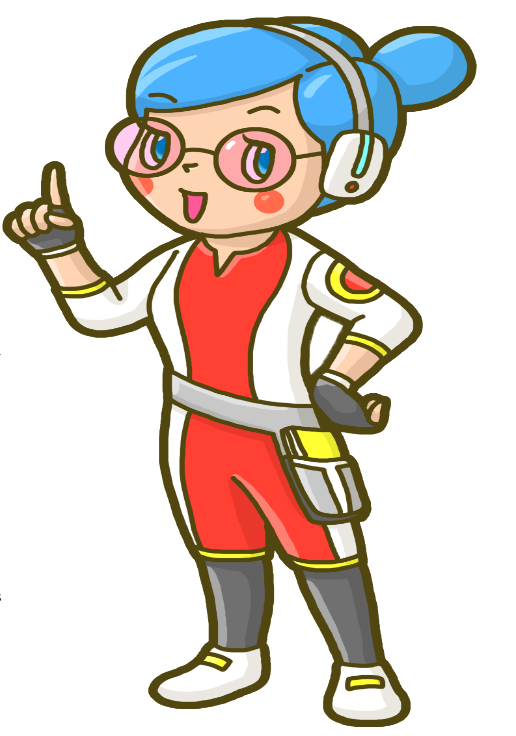
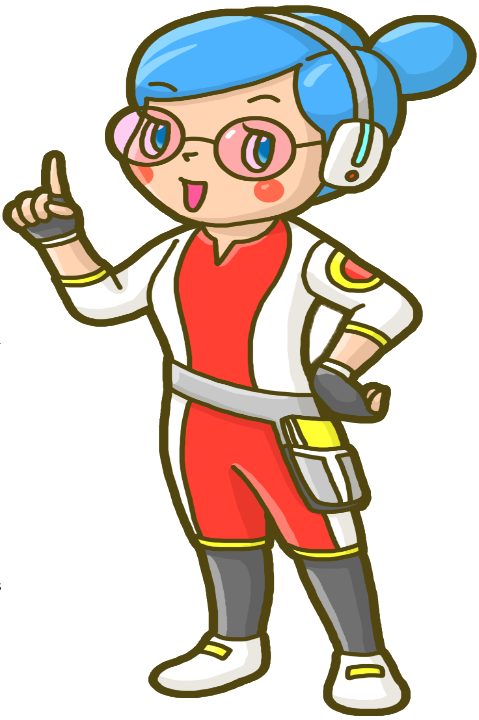
0920

diff --git a/SJTT/Content/css/SJTT.css b/SJTT/Content/css/SJTT.css
@@ -6,7 +6,7 @@ body { font-family: 'Noto Sans SC', 'Noto Sans TC'; }
 /*other*/
 body, div, dl, dt, dd, ul, ol, li, h1, h2, h3, h4, h5, h6, pre, code, form, fieldset, legend, input, textarea, p, blockquote, th, td, figure { margin: 0; padding: 0; list-style: none; }
 
-h1 { font-size: 35px; line-height: 1.7; font-weight: bold; }
+h1 { font-size: 33px; line-height: 1.7; font-weight: bold; }
 
 h3 { font-size: 28px; line-height: 1.7; font-weight: bold; }
 
@@ -46,7 +46,7 @@ button:disabled a { color: #fff !important; cursor: auto; }
 
 .table thead th { border-bottom: 0px; }
 
-@media screen and (min-width: 768px) { h1 { font-size: 38px; }
+@media screen and (min-width: 768px) { h1 { font-size: 45px; }
   h3 { font-size: 40px; }
   h4 { font-size: 24px; }
   h5 { font-size: 24px; }
@@ -58,29 +58,25 @@ button:disabled a { color: #fff !important; cursor: auto; }
 
 .page { background-color: #f4e3ce; }
 
-.page { /* page-break-inside: avoid; 若順著向下排列時會切開此元素，則直接換頁 */ /* page-break-after: always;  碰到此元素會直接換頁 */ page-break-inside: avoid; position: relative; max-width: 1024px; height: 1448px; width: 100%; /* height: 1448px; */ margin: 0 auto; overflow: hidden; border: 1px solid #20221f; padding: 0 2.5%; }
+.page { /* page-break-inside: avoid; 若順著向下排列時會切開此元素，則直接換頁 */ /* page-break-after: always;  碰到此元素會直接換頁 */ page-break-inside: avoid; position: relative; max-width: 1024px; height: 1448px; width: 100%; /* height: 1448px; */ margin: 0 auto; overflow: hidden; border: 1px solid #20221f; }
 
 .page::after { /* content: counter(page-number); 取用該名字的計數器 */ /*counter-increment: page-number 1;  增加計數器數值 */ position: absolute; right: 0; bottom: 0; left: 0; font-size: 30px; text-align: center; }
 
-.page .report_title_area { position: relative; width: 100%; display: flex; align-items: center; margin: 15px auto 50px; padding: 25px 0; border-bottom: 1.5px solid #20221f; }
+.page .report_title_area { position: relative; width: 100%; display: flex; align-items: center; margin: 0 auto 50px; padding: 25px 2.5%; background-color: #e7591a; }
 
-.page .report_title_area .logo { width: 90px; }
+.page .report_title_area .logo { width: 65px; }
 
 .page .report_title_area .report-title { position: absolute; left: 50%; transform: translate(-50%, 0%); }
 
-.page .report_title_area .report-title h3 { color: #e7591a; }
+.page .report_title_area .report-title h1 { color: #fff; }
 
-.page .report_title_area .report-title::before { content: ""; position: absolute; left: 50%; top: 50%; transform: translate(-50%, -50%); width: calc(100% + 120px); height: calc(100% + 20px); border: 2px solid #e7591a; background-color: #f4e3ce; border-radius: 50px; z-index: -1; }
-
-.page .report_title_area .report-title::after { content: ""; position: absolute; left: 50%; top: 50%; transform: translate(calc(-50% + 10px), calc(-50% + 10px)); width: calc(100% + 120px); height: calc(100% + 20px); border: 2px solid #e7591a; border-radius: 50px; z-index: -2; }
-
-.page .page_caption { width: 80%; margin: 0 auto; }
+.page .page_caption { width: 75%; margin: 0 auto; }
 
 .page .page_caption .page_caption_text p { color: #20221f; line-height: 2.5; }
 
 .page .page_caption .page_caption_text p span { font-size: 14px; }
 
-.page .page_caption .page_caption_img { display: flex; justify-content: space-between; align-items: center; margin: 40px auto 20px; }
+.page .page_caption .page_caption_img { display: flex; justify-content: space-between; align-items: flex-end; margin: 120px auto 20px; }
 
 .page .page_caption .page_caption_img .page_caption_img_left { display: flex; flex-direction: column; width: 50%; }
 
@@ -88,7 +84,7 @@ button:disabled a { color: #fff !important; cursor: auto; }
 
 .page .page_caption .page_caption_img .page_caption_img_left .page_caption_triangle .page_caption_svg { width: 100%; }
 
-.page .page_caption .page_caption_img .page_caption_img_left .page_caption_triangle .page_caption_svg svg path { fill: transparent; stroke: #20221f; stroke-width: 0.5px; }
+.page .page_caption .page_caption_img .page_caption_img_left .page_caption_triangle .page_caption_svg svg polygon, .page .page_caption .page_caption_img .page_caption_img_left .page_caption_triangle .page_caption_svg svg path { fill: transparent; stroke: #20221f; stroke-width: 1px; }
 
 .page .page_caption .page_caption_img .page_caption_img_left .page_caption_triangle .page_caption_item { display: flex; justify-content: center; width: 50%; position: absolute; }
 
@@ -108,9 +104,9 @@ button:disabled a { color: #fff !important; cursor: auto; }
 
 .page .page_caption .page_caption_img .page_caption_img_left .page_caption_triangle .page_caption_item.page_caption_item_three .page_caption_item_text { color: #e0941d; }
 
-.page .page_caption .page_caption_img .page_caption_img_left .page_caption_left_text { margin: 40px auto; }
+.page .page_caption .page_caption_img .page_caption_img_left .page_caption_left_text { margin: 60px auto 0; }
 
-.page .page_caption .page_caption_img .page_caption_img_left .page_caption_left_text .page_caption_item_text_color { width: 15px; height: 15px; margin: 0 10px 0 0; border-radius: 50%; }
+.page .page_caption .page_caption_img .page_caption_img_left .page_caption_left_text .page_caption_item_text_color { width: 20px; height: 20px; margin: 0 15px 0 0; border-radius: 50%; }
 
 .page .page_caption .page_caption_img .page_caption_img_left .page_caption_left_text .page_caption_left_text_item { display: flex; align-items: center; }
 
@@ -120,14 +116,20 @@ button:disabled a { color: #fff !important; cursor: auto; }
 
 .page .page_caption .page_caption_img .page_caption_img_left .page_caption_left_text .page_caption_left_text_item.page_caption_left_text_three .page_caption_item_text_color { background-color: #e0941d; }
 
-.page .page_caption .page_caption_img .page_caption_img_right { width: 45%; }
+.page .page_caption .page_caption_img .page_caption_img_right { position: relative; display: flex; justify-content: flex-end; width: 48%; }
 
-.page .pagination { position: relative; display: flex; justify-content: flex-end; }
+.page .page_caption .page_caption_img .page_caption_img_right .page_caption_item_img { width: 80%; }
+
+.page .page_caption .page_caption_img .page_caption_img_right .page_caption_item_text { position: absolute; top: 0; left: 0; transform: translate(0, calc(-100% - 20px)); background-color: #fff; border: 1px solid #e7591a; border-radius: 10px; padding: 10px 20px; }
+
+.page .page_caption .page_caption_img .page_caption_img_right .page_caption_item_text::before { content: ""; position: absolute; border-width: 0px 10px 10px 10px; top: 100%; left: 50%; transform: translate(-100%, 0%); border-left: 10px solid transparent; border-bottom: 10px solid transparent; border-top: 10px solid #e7591a; border-right: 10px solid transparent; }
+
+.page .pagination { position: absolute; display: flex; justify-content: flex-end; width: 90%; margin: 0 auto; bottom: 30px; left: 50%; transform: translate(-50%, 0); }
 
 .page .pagination .page_number { position: relative; z-index: 1; background-color: #f4e3ce; }
 
-.page .pagination .page_number p { color: #fff; }
+.page .pagination .page_number p { color: #e7591a; }
 
-.page .pagination .page_number::after { content: ""; position: absolute; width: 60px; height: 60px; background-color: #e7591a; top: 50%; left: 50%; transform: translate(-50%, -50%); border-radius: 50%; z-index: -1; }
+.page .pagination .page_number::after { content: ""; position: absolute; width: calc(100% + 40px); height: calc(100% + 10px); border: 1px solid #e7591a; top: 50%; left: 50%; transform: translate(-50%, -50%); border-radius: 10px; z-index: -1; }
 
-.page .pagination::after { content: ""; position: absolute; width: calc(100% - 100px); height: 1px; background-color: #20221f; top: 50%; left: 0; transform: translate(0, -50%); }
+.page .pagination::after { content: ""; position: absolute; width: calc(100% - 100px); height: 1px; background-color: #e7591a; top: 50%; left: 0; transform: translate(0, -50%); }

diff --git a/SJTT/Content/scss/pages/_index.scss b/SJTT/Content/scss/pages/_index.scss
@@ -10,7 +10,6 @@
     margin: 0 auto;
     overflow: hidden;
     border: 1px solid $main_color_grey;
-    padding: 0 2.5%;
 
     &::after {
         /* content: counter(page-number); 取用該名字的計數器 */
@@ -28,12 +27,12 @@
         width: 100%;
         display: flex;
         align-items: center;
-        margin: 15px auto 50px;
-        padding: 25px 0;
-        border-bottom: 1.5px solid $main_color_grey;
+        margin: 0 auto 50px;
+        padding: 25px 2.5%;
+        background-color: $main_color;
 
         .logo {
-            width: 90px;
+            width: 65px;
         }
 
         .report-title {
@@ -41,41 +40,41 @@
             left: 50%;
             transform: translate(-50%, 0%);
 
-            h3 {
-                color: $main_color;
+            h1 {
+                color: $white;
             }
 
-            &::before {
-                content: "";
-                position: absolute;
-                left: 50%;
-                top: 50%;
-                transform: translate(-50%, -50%);
-                width: calc(100% + 120px);
-                height: calc(100% + 20px);
-                border: 2px solid $main_color;
-                background-color: $body_bg;
-                border-radius: 50px;
-                z-index: -1;
-            }
+            // &::before {
+            //     content: "";
+            //     position: absolute;
+            //     left: 50%;
+            //     top: 50%;
+            //     transform: translate(-50%, -50%);
+            //     width: calc(100% + 120px);
+            //     height: calc(100% + 20px);
+            //     border: 2px solid $main_color;
+            //     background-color: $body_bg;
+            //     border-radius: 50px;
+            //     z-index: -1;
+            // }
 
-            &::after {
-                content: "";
-                position: absolute;
-                left: 50%;
-                top: 50%;
-                transform: translate(calc(-50% + 10px), calc(-50% + 10px));
-                width: calc(100% + 120px);
-                height: calc(100% + 20px);
-                border: 2px solid $main_color;
-                border-radius: 50px;
-                z-index: -2;
-            }
+            // &::after {
+            //     content: "";
+            //     position: absolute;
+            //     left: 50%;
+            //     top: 50%;
+            //     transform: translate(calc(-50% + 10px), calc(-50% + 10px));
+            //     width: calc(100% + 120px);
+            //     height: calc(100% + 20px);
+            //     border: 2px solid $main_color;
+            //     border-radius: 50px;
+            //     z-index: -2;
+            // }
         }
     }
 
     .page_caption {
-        width: 80%;
+        width: 75%;
         margin: 0 auto;
         .page_caption_text {
             p {
@@ -91,8 +90,8 @@
         .page_caption_img {
             display: flex;
             justify-content: space-between;
-            align-items: center;
-            margin: 40px auto 20px;
+            align-items: flex-end;
+            margin: 120px auto 20px;
 
             .page_caption_img_left {
                 display: flex;
@@ -105,10 +104,11 @@
                     .page_caption_svg{
                         width: 100%;
                         svg{
+                            polygon,
                             path{
                                 fill: transparent;
                                 stroke: $main_color_grey;
-                                stroke-width: 0.5px;
+                                stroke-width: 1px;
                             }
                         }
                     }
@@ -160,11 +160,11 @@
                 }
                 
                 .page_caption_left_text{
-                    margin: 40px auto;
+                    margin: 60px auto 0;
                     .page_caption_item_text_color{
-                        width: 15px;
-                        height: 15px;
-                        margin: 0 10px 0 0;
+                        width: 20px;
+                        height: 20px;
+                        margin: 0 15px 0 0;
                         border-radius: 50%;
                     }
 
@@ -191,34 +191,70 @@
             }
 
             .page_caption_img_right {
-                width: 45%;
+                position: relative;
+                display: flex;
+                justify-content: flex-end;
+                width: 48%;
+
+                .page_caption_item_img{
+                    width: 80%;
+                }
+
+                .page_caption_item_text{
+                    position: absolute;
+                    top: 0;
+                    left: 0;
+                    transform: translate(0 , calc(-100% - 20px));
+                    background-color: $white;
+                    border: 1px solid $main_color;
+                    border-radius: 10px;
+                    padding: 10px 20px;
+
+                    &::before{
+                        content: "";
+    position: absolute;
+    border-width: 0px 10px 10px 10px;
+    top: 100%;
+    left: 50%;
+    transform: translate(-100%, 0%);
+    border-left: 10px solid transparent;
+    border-bottom: 10px solid transparent;
+    border-top: 10px solid $main_color;
+    border-right: 10px solid transparent;
+                    }
+                }
             }
         }
     }
 
     .pagination{
-        position: relative;
-        display: flex;
-        justify-content: flex-end;
+        position: absolute;
+    display: flex;
+    justify-content: flex-end;
+    width: 90%;
+    margin: 0 auto;
+    bottom: 30px;
+    left: 50%;
+    transform: translate(-50%, 0);
 
         .page_number{
             position: relative;
             z-index: 1;
             background-color: $body_bg;
             p{
-                color: $white;
+                color: $main_color;
             }
 
             &::after{
                 content: "";
                 position: absolute;
-                width: 60px;
-                height: 60px;
-                background-color: $main_color;
+                width: calc(100% + 40px);
+                height: calc(100% + 10px);
+                border: 1px solid $main_color;
                 top: 50%;
                 left: 50%;
-                transform: translate(-50% , -50%);
-                border-radius: 50%;
+                transform: translate(-50%, -50%);
+                border-radius: 10px;
                 z-index: -1;
             }
         }
@@ -228,7 +264,7 @@
             position: absolute;
             width: calc(100% - 100px);
             height: 1px;
-            background-color: $main_color_grey;
+            background-color: $main_color;
             top: 50%;
             left: 0;
             transform: translate(0 , -50%);

diff --git a/SJTT/index.html b/SJTT/index.html
@@ -20,7 +20,7 @@
         </div>
 
         <div class="report-title">
-          <h3>教師分類圖像報表</h3>
+          <h1>教師分類圖像報表</h1>
         </div>
 
       </div>
@@ -40,9 +40,9 @@
           <div class="page_caption_img_left">
             <div class="page_caption_triangle">
               <div class="page_caption_svg">
-                <svg viewBox="0 0 130 90" xml:space="preserve">
-                  <path d="M130,90H0l0.3-0.4L65,0l0.2,0.3L130,90z M1,89.5H129L65,0.8L1,89.5z"/>
-                  </svg>
+                <svg viewBox="0 0 215 150" xml:space="preserve">
+                  <polygon points="107.5,2.5 2.5,147.5 212.5,147.5 "/>
+                </svg>
                </div>
                 <div class="page_caption_item page_caption_item_one">
                   <div class="page_caption_item_img">
@@ -80,6 +80,12 @@
           <div class="page_caption_img_right">
             <div class="page_caption_item_img">
               <img src="Content/image/caption/caption_figure.png" alt="">
+            </div>
+
+            <div class="page_caption_item_text">
+              <p>
+                為您整合三項測驗的成果訊息！
+              </p>
             </div>
           </div>
         </div>

diff --git a/SJTT/Content/scss/base/_reset.scss b/SJTT/Content/scss/base/_reset.scss
@@ -34,7 +34,7 @@ figure {
 }
 
 h1 {
-    font-size: 35px;
+    font-size: 33px;
     line-height: 1.7;
     font-weight: bold;
 }
@@ -159,7 +159,7 @@ body {
 
 @media screen and (min-width: 768px) {
     h1 {
-        font-size: 38px;
+        font-size: 45px;
     }
 
     h3 {
